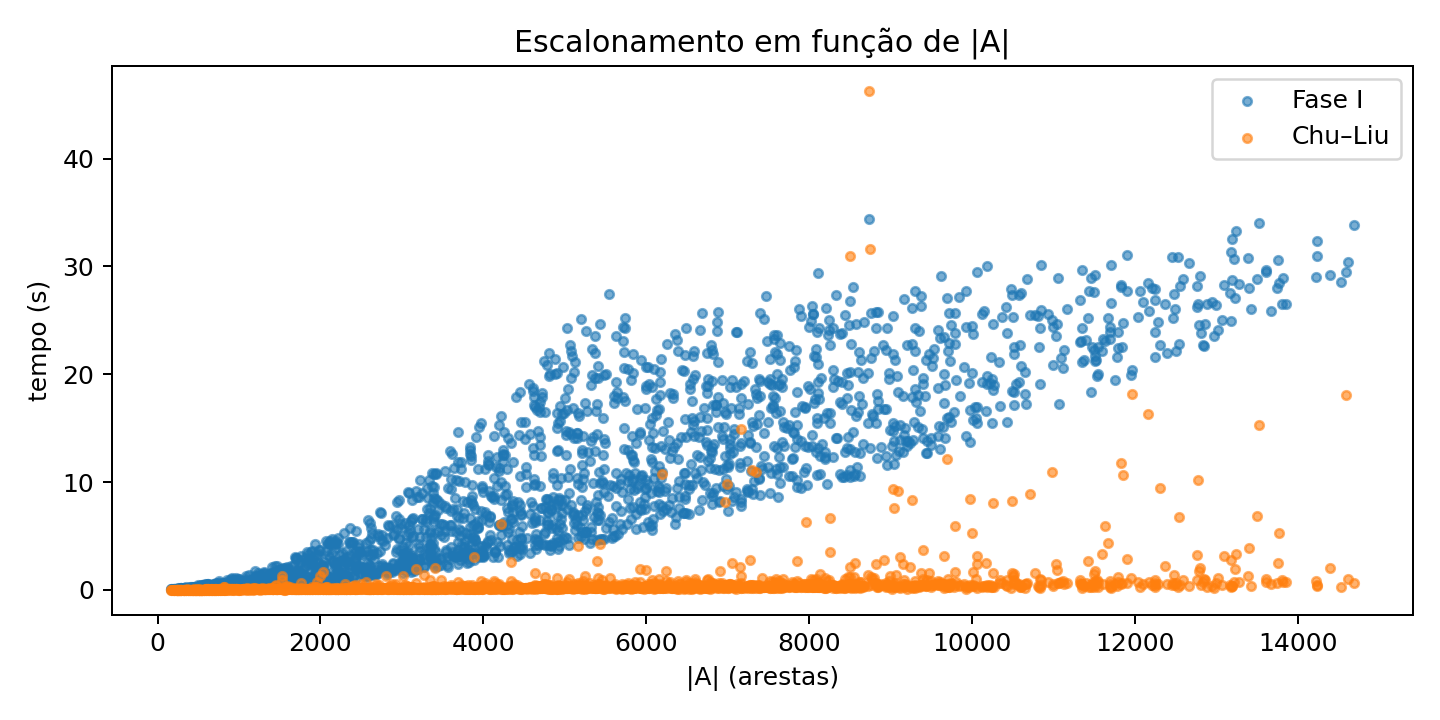
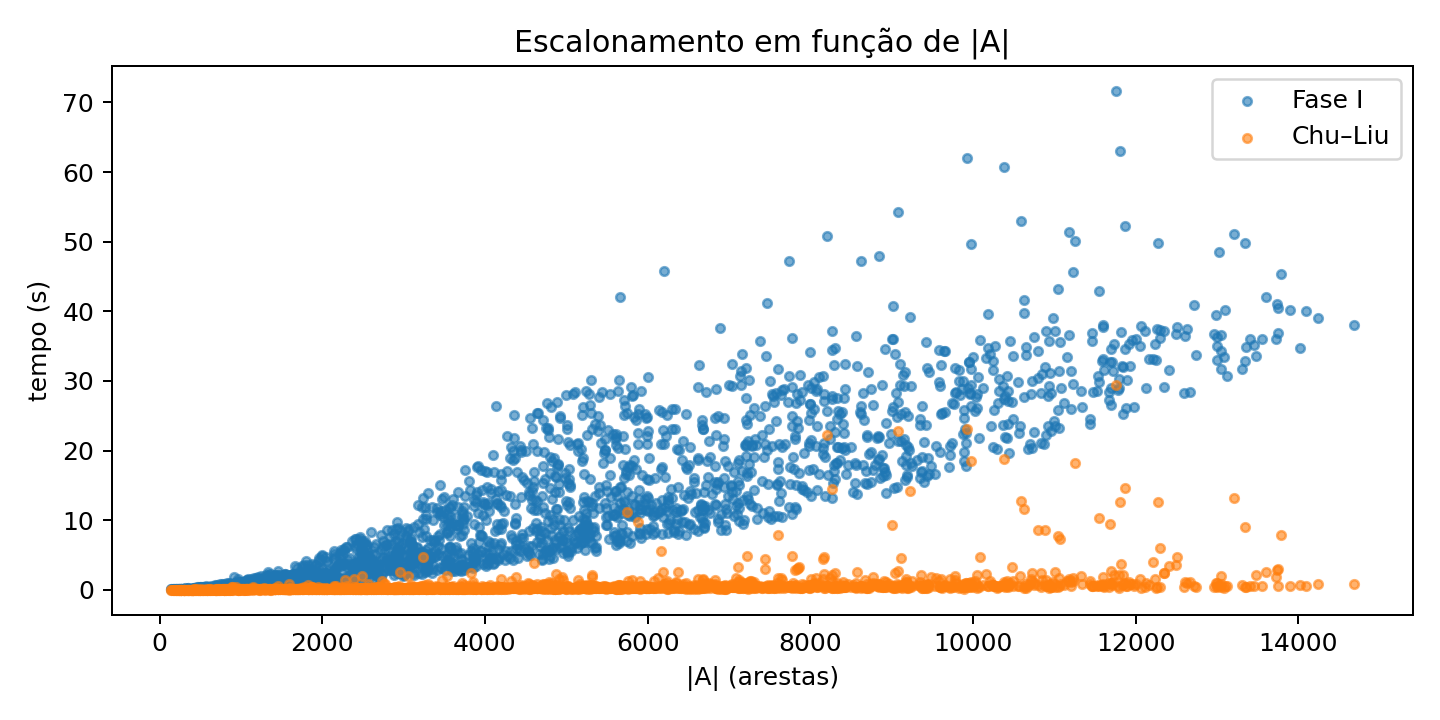
mudança de resultados

diff --git a/Dissertação/capitulos/resultados/main.tex b/Dissertação/capitulos/resultados/main.tex
@@ -1,33 +1,33 @@
 \chapter{Chu-liu / Edmonds vs. Frank}
 
-Neste capítulo, apresentamos uma análise comparativa entre os algoritmos de Chu--Liu--Edmonds e András Frank para o problema da arborescência de custo mínimo. Ambas metodologias são equivalentes e resolvem o problema de arborescência de custo mínimo, mas adotam estratégias distintas na redução de custos e na construção da solução:
+Neste capítulo, apresentamos uma análise comparativa entre os algoritmos de Chu--Liu--Edmonds e András Frank para o problema da arborescência de custo mínimo. Ambas metodologias são equivalentes e resolvem o mesmo problema, mas adotam estratégias distintas na redução de custos e na construção da solução.
 
 O algoritmo de Chu--Liu--Edmonds \cite{chu1965,edmonds1967optimum} opera recursivamente selecionando para cada vértice \(v \neq r\) um arco de entrada de custo mínimo, contraindo ciclos detectados e ajustando custos, até eliminar todos os ciclos.
 
 O algoritmo de Frank \cite{frank1981,frank2014} também reduz custos subtraindo o mínimo de entrada, mas identifica \emph{subconjuntos minimais} via componentes fortemente conexas, processando múltiplos vértices simultaneamente. Opera em duas fases: (i) redução até criar arcos de custo reduzido zero e (ii) construção da arborescência a partir desses arcos.
 
-A seguir, apresentamos experimentos empíricos que avaliam o comportamento prático dessas metodologias em termos de tempo de execução, consumo de memória e características estruturais dos digrafos processados. Vale salientar que este trabalho não explora variantes ou otimizações específicas, mas sim o comportamento dos algoritmos em sua forma clássica.
+A seguir, apresentamos os experimentos empíricos que avaliam o comportamento prático dessas metodologias em termos de tempo de execução, consumo de memória e características estruturais dos digrafos processados. Vale salientar que este trabalho não tem como objetivo explorar otimizações específicas, mas sim o comportamento dos algoritmos em sua forma clássica.
 
 \section{Análise comparativa dos algoritmos}
 
-Conduzimos 2000 experimentos em digrafos enraizados aleatórios com quantide de vértices \(|V| \in [101, 4999]\)(mediana 2557 vértices), e número de arestas \(|A|\) com densidade média de \(1{,}98n\) arcos sendo n o número de vértices e pesos inteiros em \([1, 50]\). Para cada instância, executamos Chu--Liu--Edmonds e as duas fases de Frank (com variantes v1 e v2 da Fase~II), registrando custos, tempos e outras métricas adequadas.
+Conduzimos 2000 experimentos em digrafos enraizados aleatórios com quantidade de vértices \(|V| \in [101, 4996]\) sendo a mediana de 2464 vértices, e número de arestas \(|A|\) com densidade média de \(1{,}98n\) arcos e pesos inteiros \(\in [1, 50]\). Para cada instância, executamos Chu--Liu--Edmonds e as duas fases de Andras--Frank com duas versões v1 e v2 para a fase II, sendo v2 uma versão otimizada utilizando fila de prioridade heap, os testes registraram informações sobre custos, tempos de execução, consumo de memória e outras métricas que detalharemos adiante.
 
-Os 2000 testes confirmaram que todos os métodos retornam sempre o mesmo custo, com 100\% de sucesso, validando a corretude das implementações e a equivalência teórica entre Chu--Liu/Edmonds e Frank \cite{frank2014,schrijver2003comb}. Além disso, as verificações da condição de otimalidade dual foram bem-sucedidas em todos os casos para ambas as variantes de Frank.
+Os 2000 testes confirmaram que todos os métodos retornam sempre o mesmo custo, validando a corretude das implementações e a equivalência teórica entre Chu--Liu/Edmonds e Frank \cite{frank2014,schrijver2003comb}. Além disso, as verificações da condição de otimalidade dual foram bem-sucedidas em todos os casos para ambas as variantes de Frank.
 
-Quanto ao desempenho temporal, a Fase~I de Frank apresenta tempo mediano de \(7{,}63\) s (média \(9{,}84\) s), significativamente superior ao tempo mediano de Chu--Liu/Edmonds (\(0{,}18\) s, média \(0{,}52\) s). A Fase~I, responsável pela identificação de subconjuntos minimais via componentes fortemente conexas, domina o tempo total de execução do método de Frank. A Fase~II, em contrapartida, representa uma fração residual do processamento: mediana de \(0{,}84\) s para versão 1 do algoritmo e \(0{,}013\) s para a versão 2 (utilizando heap).
+Quanto ao desempenho temporal, a Fase~I de Frank apresenta tempo mediano de \(8{,}93\) s (média \(12{,}40\) s), significativamente superior ao tempo mediano de Chu--Liu/Edmonds (\(0{,}25\) s, média \(0{,}58\) s). A Fase~I, responsável pela identificação de subconjuntos minimais via componentes fortemente conexas, domina o tempo total de execução do método de Frank. A Fase~II, em contrapartida, representa uma fração residual do processamento: mediana de \(0{,}98\) s para versão 1 do algoritmo e \(0{,}016\) s para a versão 2 (utilizando heap).
 
-A comparação entre as duas variantes da Fase~II revela ganho expressivo com o uso de \emph{heap} (fila de prioridade). A versão v2 apresenta aceleração mediana de \(61{,}54\times\) (média \(63{,}07\times\)) sobre a versão v1, confirmando empiricamente a vantagem da estrutura de dados com complexidade \(O(\log n)\) versus \(O(n)\) por operação de seleção de mínimo.
+A comparação entre as duas variantes da Fase~II revela ganho expressivo com o uso de \emph{heap} (fila de prioridade). A versão v2 apresenta aceleração mediana de \(58{,}12\times\) (média \(61{,}30\times\)) sobre a versão v1, confirmando empiricamente a vantagem da estrutura de dados com complexidade \(O(\log n)\) versus \(O(n)\) por operação de seleção de mínimo.
 
-As métricas estruturais mostram que o número de contrações em Chu--Liu/Edmonds é pequeno (mediana 2, média 7,89, máximo 824), muito abaixo do limite teórico \(O(n)\) \cite{schrijver2003comb}, indicando que as estruturas dificilmente apresentam alta complexidade cíclica durante o processo de contração.
+As métricas estruturais mostram que o número de contrações em Chu--Liu/Edmonds é pequeno (mediana 2, média 6,82, máximo 406), muito abaixo do limite teórico \(O(n)\) \cite{schrijver2003comb}, indicando que as estruturas dificilmente apresentam alta complexidade cíclica durante o processo de contração.
 
-O consumo de memória na Fase~I mantém-se modesto (mediana 11~MB, média 12~MB), viabilizando a aplicação dos algoritmos mesmo em ambientes com recursos limitados.
+O consumo de memória na Fase~I mantém-se modesto (mediana 11{,}5~MB, média 14{,}8~MB), viabilizando a aplicação dos algoritmos mesmo em ambientes com recursos limitados.
 
 As Figuras~\ref{fig:times-boxplot}--\ref{fig:d0-vs-v} apresentam os resultados experimentais.
 
 \begin{figure}[H]
     \centering
     \includegraphics[width=.85\linewidth]{figures/fig_times_boxplot.png}
-    \caption{Distribuição de tempos: Fase~I apresenta maior mediana (\(7{,}63\) s) e variabilidade que Chu--Liu/Edmonds (\(0{,}18\) s).}
+    \caption{Distribuição de tempos: Fase~I apresenta maior mediana (\(8{,}93\) s) e variabilidade que Chu--Liu/Edmonds (\(0{,}25\) s).}
     \label{fig:times-boxplot}
 \end{figure}
 
@@ -41,21 +41,21 @@ As Figuras~\ref{fig:times-boxplot}--\ref{fig:d0-vs-v} apresentam os resultados e
 \begin{figure}[H]
     \centering
     \includegraphics[width=.75\linewidth]{figures/fig_speedup_hist.png}
-    \caption{Aceleração na Fase~II: v2 (\emph{heap}) apresenta mediana de \(61{,}54\times\) sobre v1.}
+    \caption{Aceleração na Fase~II: v2 (\emph{heap}) apresenta mediana de \(58{,}12\times\) sobre v1.}
     \label{fig:speedup}
 \end{figure}
 
 \begin{figure}[H]
     \centering
     \includegraphics[width=.75\linewidth]{figures/fig_contractions_depth.png}
-    \caption{Distribuição do número de contrações de ciclos realizadas por Chu--Liu/Edmonds: mediana 2, média \(7{,}89\), máximo 824. A maioria das instâncias requer poucas contrações.}
+    \caption{Distribuição do número de contrações de ciclos realizadas por Chu--Liu/Edmonds: mediana 2, média \(6{,}82\), máximo 406. A maioria das instâncias requer poucas contrações.}
     \label{fig:contr-depth}
 \end{figure}
 
 \begin{figure}[H]
     \centering
     \includegraphics[width=.75\linewidth]{figures/fig_peakmem_hist.png}
-    \caption{Pico de memória na Fase~I: mediana \(11\) MB.}
+    \caption{Pico de memória na Fase~I: mediana \(11{,}5\) MB.}
     \label{fig:peakmem}
 \end{figure}
 
@@ -70,8 +70,8 @@ As Figuras~\ref{fig:times-boxplot}--\ref{fig:d0-vs-v} apresentam os resultados e
 
 Os experimentos validam empiricamente as previsões teóricas e revelam características importantes do comportamento prático dos algoritmos. A equivalência de custos em 100\% das 2000 instâncias, somada à verificação bem-sucedida das condições de otimalidade dual, confirma a corretude das implementações.
 
-Chu--Liu/Edmonds demonstra-se mais eficiente para construção direta de arborescências nas instâncias aleatórias testadas (mediana \(0{,}18\) s, média \(0{,}52\) s), enquanto o método de Frank apresenta overhead significativo na Fase~I (mediana \(7{,}63\) s, média \(9{,}84\) s) devido ao processamento de subconjuntos minimais via componentes fortemente conexas. A versão heap da Fase~II valida os ganhos assintóticos esperados, com aceleração de \(61{,}54\times\) (mediana) sobre a versão linear, demonstrando que melhorias algorítmicas fundamentais se traduzem em benefícios práticos mensuráveis.
+Chu--Liu/Edmonds demonstra-se mais eficiente para construção direta de arborescências nas instâncias aleatórias testadas (mediana \(0{,}25\) s, média \(0{,}58\) s), enquanto o método de Frank apresenta overhead significativo na Fase~I (mediana \(8{,}93\) s, média \(12{,}40\) s) devido ao processamento de subconjuntos minimais via componentes fortemente conexas. A versão heap da Fase~II valida os ganhos assintóticos esperados, com aceleração de \(58{,}12\times\) (mediana) sobre a versão linear, demonstrando que melhorias algorítmicas fundamentais se traduzem em benefícios práticos mensuráveis.
 
-O comportamento em digrafos aleatórios é significativamente melhor que os limites teóricos de pior caso. O número de contrações observado (mediana 2, média 7,89) é muito inferior ao limite \(O(n)\), e o subgrafo \(D_0\) mantém razão \(|A_0|/|V_0| \approx 1{,}02\). O consumo modesto de memória (mediana 11~MB) e a escalabilidade observada viabilizam a aplicação prática de ambos os métodos em contextos com recursos computacionais limitados.
+O comportamento em digrafos aleatórios é significativamente melhor que os limites teóricos de pior caso. O número de contrações observado (mediana 2, média 6,82) é muito inferior ao limite \(O(n)\), e o subgrafo \(D_0\) mantém razão \(|A_0|/|V_0| \approx 1{,}00\). O consumo modesto de memória (mediana 11{,}5~MB) e a escalabilidade observada viabilizam a aplicação prática de ambos os métodos em contextos com recursos computacionais limitados.
 
 Compreender os algoritmos teoricamente e validá-los empiricamente é fundamental, mas como transformar esse conhecimento em aprendizagem efetiva? Desenvolvemos uma aplicação \textit{web} que permite acompanhar passo a passo o funcionamento de ambos os algoritmos de forma visual e interativa. O próximo capítulo discute os fundamentos didáticos que orientaram esse design.

diff --git a/scripts/analyze_results.py b/scripts/analyze_results.py
@@ -6,7 +6,7 @@ from collections import defaultdict
 import matplotlib.pyplot as plt
 
 ROOT = os.path.dirname(os.path.dirname(__file__))
-CSV_PATH = os.path.join(ROOT, "test_results.csv")
+CSV_PATH = os.path.join(ROOT, "test_results copy.csv")
 OUT_DIR = os.path.join(ROOT, "Latex", "figures")
 os.makedirs(OUT_DIR, exist_ok=True)
 
